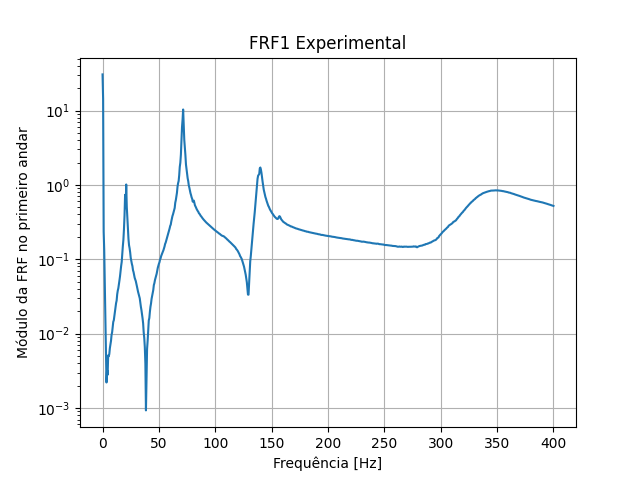
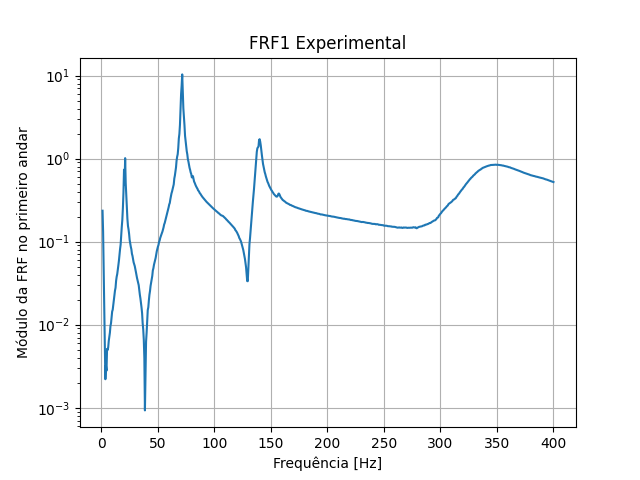
Modificação no plot da FRF
Tiramos os primeiros pontos que descrevem a FRF, pois são erros da medição.

diff --git a/trabalho_vibes.py b/trabalho_vibes.py
@@ -15,7 +15,7 @@ class Vibes():
         # Plotar gráfico da FRF do primeiro andar
         frf_1_andar = np.abs(df['Signal 2 (Imag.)']) + np.abs(df['Signal 2 (Real)']) # Obtém-se o módulo da FRF
 
-        plt.plot(freq, frf_1_andar)
+        plt.plot(freq[2:], frf_1_andar[2:])
         plt.xlabel('Frequência [Hz]')
         plt.ylabel('Módulo da FRF no primeiro andar')
         plt.title('FRF1 Experimental')
@@ -27,7 +27,7 @@ class Vibes():
         # Plotar gráfico da FRF do segundo andar
         frf_2_andar = np.abs(df['Signal 3 (Imag.)']) + np.abs(df['Signal 3 (Real)']) # Obtém-se o módulo da FRF
 
-        plt.plot(freq, frf_2_andar)
+        plt.plot(freq[2:], frf_2_andar[2:])
         plt.xlabel('Frequência [Hz]')
         plt.ylabel('Módulo da FRF no segundo andar')
         plt.title('FRF2 Experimental')
@@ -39,7 +39,7 @@ class Vibes():
         # Plotar gráfico da FRF do terceiro andar
         frf_3_andar = np.abs(df['Signal 4 (Imag.)']) + np.abs(df['Signal 4 (Real)']) # Obtém-se o módulo da FRF
 
-        plt.plot(freq, frf_3_andar)
+        plt.plot(freq[2:], frf_3_andar[2:])
         plt.xlabel('Frequência [Hz]')
         plt.ylabel('Módulo da FRF no terceiro andar')
         plt.title('FRF3 Experimental')
@@ -49,9 +49,10 @@ class Vibes():
         plt.show()
 
 if __name__ == '__main__':
-    #daniel = Vibes()
-    #daniel.plotar_frf_excel()
-    df = pd.read_excel("D:\\UFSC\\Vibes\\Cordioli\\Trabalho\\Grupo 6\\FRF_easy_to_import.xlsx")
+    daniel = Vibes()
+    daniel.plotar_frf_excel()
+
+    '''df = pd.read_excel("D:\\UFSC\\Vibes\\Cordioli\\Trabalho\\Grupo 6\\FRF_easy_to_import.xlsx")
     frf_1_andar = np.abs(df['Signal 2 (Imag.)']) + np.abs(df['Signal 2 (Real)']) 
     freq = df['Frequencia']
-    print(frf_1_andar)
+    print(frf_1_andar)'''
